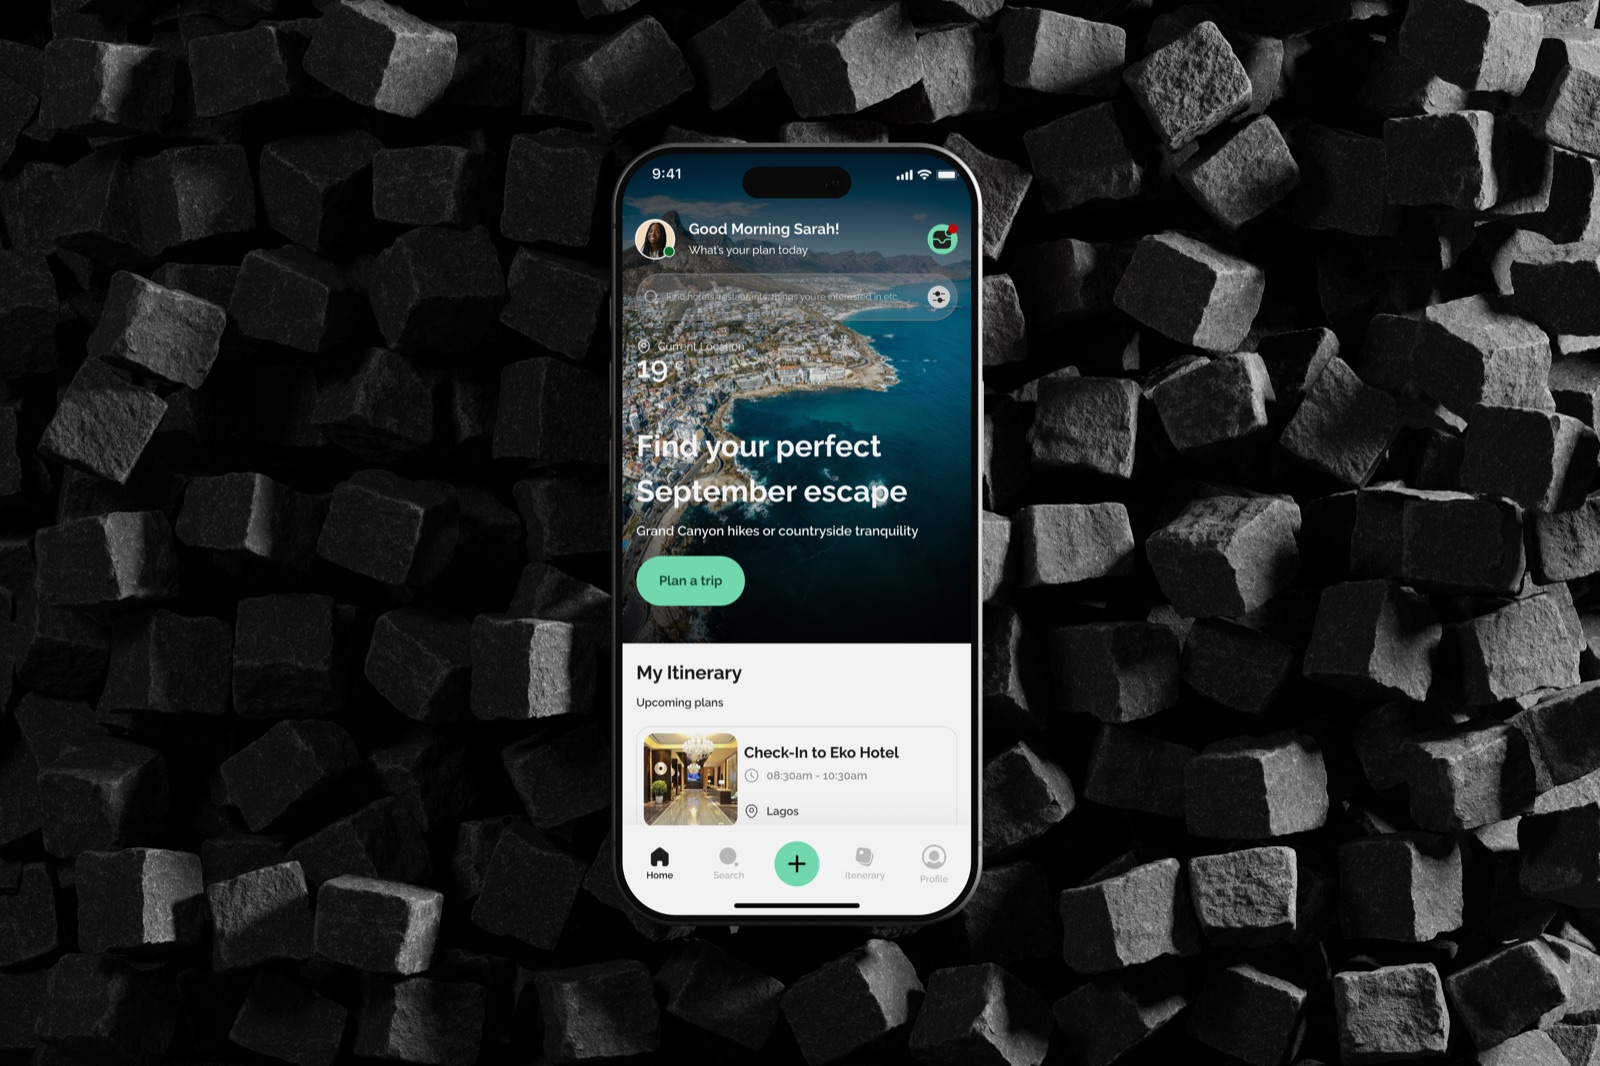
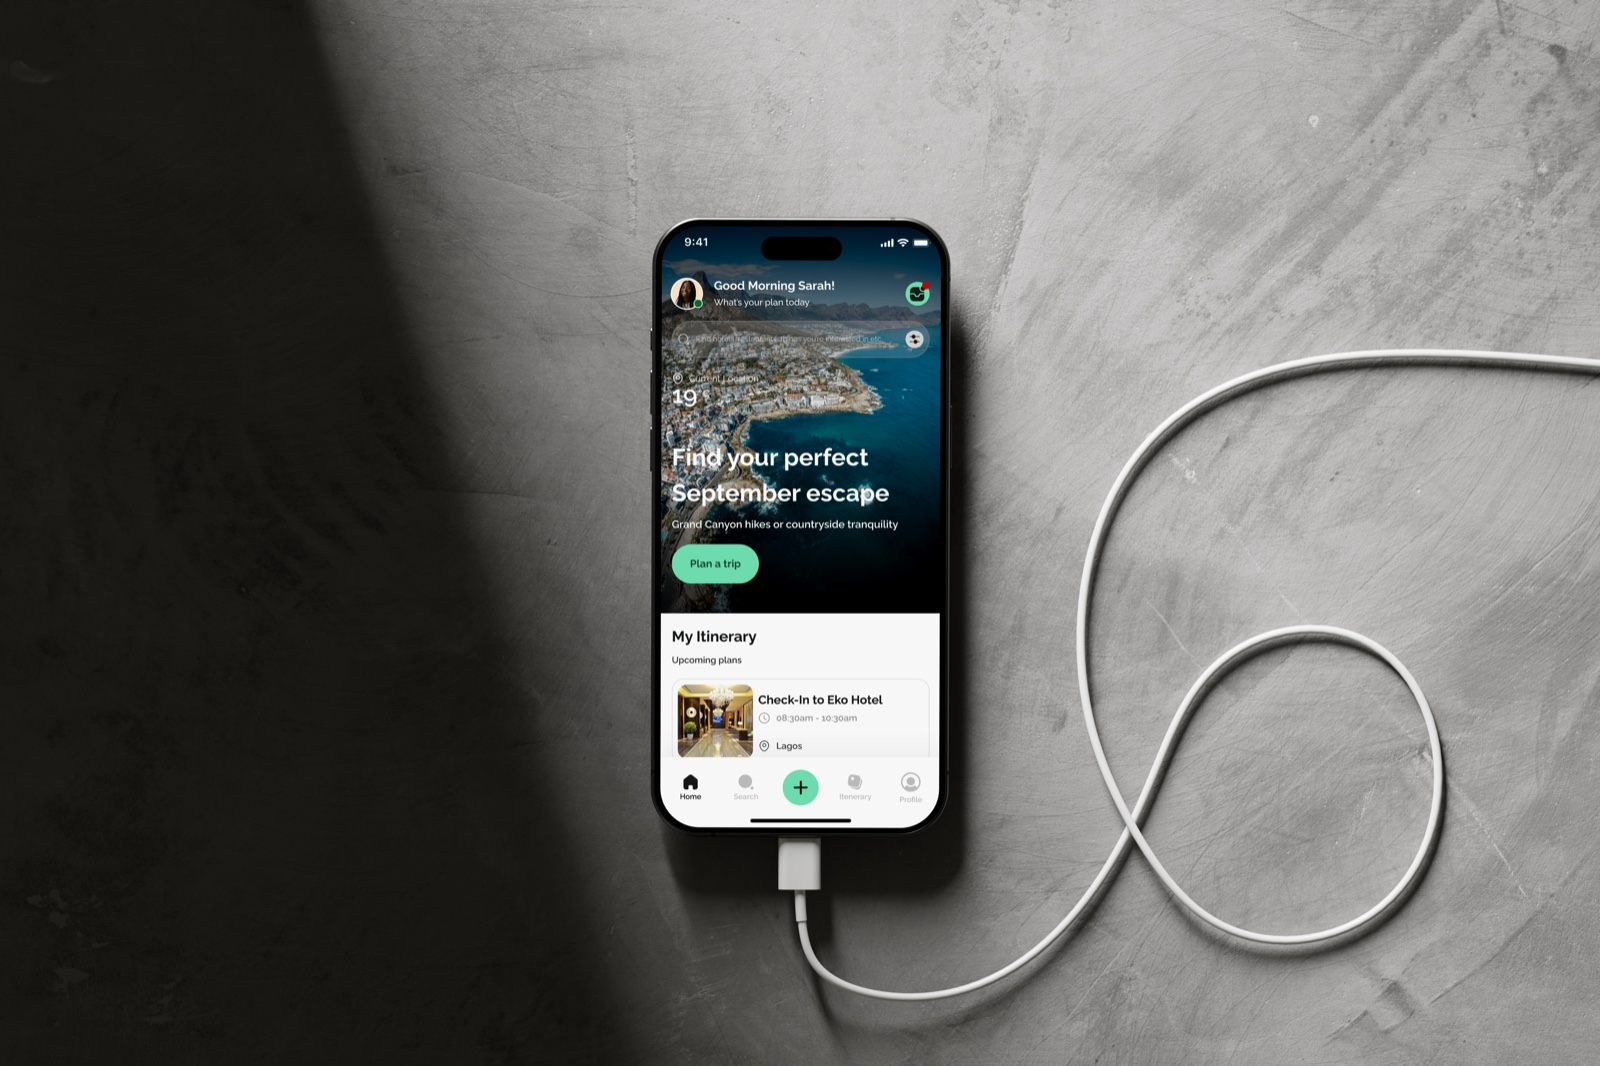
Swap the Plantinerary thumbnail for the flat-lay iPhone mockup
The old straight-on shot moves to plantinerary-home.jpg and keeps its
place as the in-article figure, so the case study doesn't open by
repeating the image the reader just clicked.

diff --git a/lib/data.ts b/lib/data.ts
@@ -199,7 +199,10 @@ export const projects: Project[] = [
         },
         {
           kind: "figure",
-          src: "/images/work/plantinerary.jpg",
+          /* A different shot of the same screen than the card thumbnail uses,
+             so the case study doesn't open by repeating the image the reader
+             just clicked. */
+          src: "/images/work/plantinerary-home.jpg",
           caption:
             "Home: discovery up top, but the itinerary is already on the screen underneath it.",
           impact:
